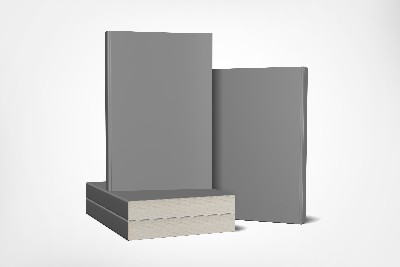
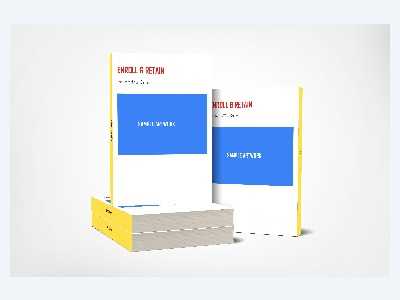
Fix lighting, contrast, and brightness across all mockups to match original PSD templates exactly

diff --git a/tools.html b/tools.html
@@ -1114,9 +1114,9 @@ document.addEventListener('DOMContentLoaded', () => {
     "layers": {
       "backdrop": "images/psd_mockups/hardcover_standing/base_backdrop.jpg",
       "shadow": "images/psd_mockups/hardcover_standing/shadow.png",
-      "shading": "images/psd_mockups/hardcover_standing/book_shading.png",
-      "shadingBlend": "multiply"
+      "crease": "images/psd_mockups/hardcover_standing/crease.png"
     },
+    "quadsBlendMode": "source-over",
     "quads": {
       "front": [
         [
@@ -1231,7 +1231,7 @@ document.addEventListener('DOMContentLoaded', () => {
         ]
       ]
     },
-    "quadsBlendMode": "multiply"
+    "quadsBlendMode": "source-over"
   },
   "front_back_showcase": {
     "id": "front_back_showcase",
@@ -1625,7 +1625,7 @@ document.addEventListener('DOMContentLoaded', () => {
         ]
       ]
     },
-    "quadsBlendMode": "multiply"
+    "quadsBlendMode": "source-over"
   },
   "book_mockup_1": {
     "id": "book_mockup_1",
@@ -1939,7 +1939,13 @@ PSD_MANIFEST.spine_full_showcase = PSD_MANIFEST.studio_collector;
       ctx.save();
       ctx.translate(w / 2, h / 2);
       ctx.rotate(Math.PI / 2);
-      ctx.fillStyle = '#ffffff';
+      // Smart contrast text calculation
+      const hex = (color || '#1e293b').replace('#', '');
+      const r = parseInt(hex.substring(0, 2), 16) || 0;
+      const g = parseInt(hex.substring(2, 4), 16) || 0;
+      const b = parseInt(hex.substring(4, 6), 16) || 0;
+      const lum = (r * 299 + g * 587 + b * 114) / 1000;
+      ctx.fillStyle = lum > 150 ? '#0f172a' : '#ffffff';
       ctx.font = 'bold 36px Outfit, sans-serif';
       ctx.textAlign = 'center';
       ctx.fillText(label, 0, 10);
@@ -1999,7 +2005,7 @@ PSD_MANIFEST.spine_full_showcase = PSD_MANIFEST.studio_collector;
       const rawFront = activeFrontImg || createSolidArtwork('#1e293b', 1000, 1500, 'BOOK TITLE');
       const frontArt = getTransformedArtwork(rawFront);
       const spineArt = customSpineImg || activeSpineImg || createSolidArtwork(spineColor, 300, 2000, 'TITLE — AUTHOR');
-      const rawBack = customBackImg || activeBackImg || createSolidArtwork(spineColor, 1000, 1500, '');
+      const rawBack = customBackImg || activeBackImg || activeFrontImg || createSolidArtwork(spineColor, 1000, 1500, '');
       const backArt = getTransformedArtwork(rawBack);
 
       // 3. Realistic Layer Compositing Pipeline
@@ -2013,7 +2019,7 @@ PSD_MANIFEST.spine_full_showcase = PSD_MANIFEST.studio_collector;
         }
         // 2. Back Book Artwork (Cover + Spine)
         ctx.save();
-        ctx.globalCompositeOperation = config.quadsBlendMode || 'multiply';
+        ctx.globalCompositeOperation = config.quadsBlendMode || 'source-over';
         if (config.quads.back) warpQuad(ctx, backArt, config.quads.back, scale);
         if (config.quads.backSpine) warpQuad(ctx, spineArt, config.quads.backSpine, scale);
         ctx.restore();
@@ -2038,7 +2044,7 @@ PSD_MANIFEST.spine_full_showcase = PSD_MANIFEST.studio_collector;
         }
         // 5. Book 3 Artwork (stackFront2 + stackSpine2)
         ctx.save();
-        ctx.globalCompositeOperation = config.quadsBlendMode || 'multiply';
+        ctx.globalCompositeOperation = config.quadsBlendMode || 'source-over';
         if (config.quads.stackFront2) warpQuad(ctx, frontArt, config.quads.stackFront2, scale);
         if (config.quads.stackSpine2) warpQuad(ctx, spineArt, config.quads.stackSpine2, scale);
         ctx.restore();
@@ -2051,7 +2057,7 @@ PSD_MANIFEST.spine_full_showcase = PSD_MANIFEST.studio_collector;
         }
         // 7. Book 2 Artwork (stackFront1 + stackSpine1)
         ctx.save();
-        ctx.globalCompositeOperation = config.quadsBlendMode || 'multiply';
+        ctx.globalCompositeOperation = config.quadsBlendMode || 'source-over';
         if (config.quads.stackFront1) warpQuad(ctx, frontArt, config.quads.stackFront1, scale);
         if (config.quads.stackSpine1) warpQuad(ctx, spineArt, config.quads.stackSpine1, scale);
         ctx.restore();
@@ -2064,7 +2070,7 @@ PSD_MANIFEST.spine_full_showcase = PSD_MANIFEST.studio_collector;
         }
         // 9. Book 1 Artwork (Hero front cover + hero spine)
         ctx.save();
-        ctx.globalCompositeOperation = config.quadsBlendMode || 'multiply';
+        ctx.globalCompositeOperation = config.quadsBlendMode || 'source-over';
         if (config.quads.front) warpQuad(ctx, frontArt, config.quads.front, scale);
         if (config.quads.spine) warpQuad(ctx, spineArt, config.quads.spine, scale);
         ctx.restore();
@@ -2321,6 +2327,7 @@ PSD_MANIFEST.spine_full_showcase = PSD_MANIFEST.studio_collector;
   }
 
   // Smart Artwork Processor: Slices Full Wraps or uses Front Covers
+  window.processUploadedArtwork = processUploadedArtwork;
   function processUploadedArtwork(imgOrCanvas) {
     if (!imgOrCanvas) return;
     const w = imgOrCanvas.width || imgOrCanvas.videoWidth;
@@ -2372,6 +2379,21 @@ PSD_MANIFEST.spine_full_showcase = PSD_MANIFEST.studio_collector;
       activeFrontImg = imgOrCanvas;
       activeSpineImg = null;
       activeBackImg = null;
+
+      // Auto-sample spine color from edge of uploaded cover if not manually overridden
+      try {
+        if (!customSpineImg) {
+          const sc = document.createElement('canvas');
+          sc.width = 16; sc.height = 16;
+          const sctx = sc.getContext('2d');
+          sctx.drawImage(imgOrCanvas, 0, 0, 16, 16);
+          const p = sctx.getImageData(0, 8, 1, 1).data;
+          const hex = '#' + ((1 << 24) + (p[0] << 16) + (p[1] << 8) + p[2]).toString(16).slice(1);
+          spineColor = hex;
+          if (spineColorPicker) spineColorPicker.value = hex;
+          if (spineColorVal) spineColorVal.textContent = hex.toUpperCase();
+        }
+      } catch (e) {}
     }
 
     renderCurrentMockup();
